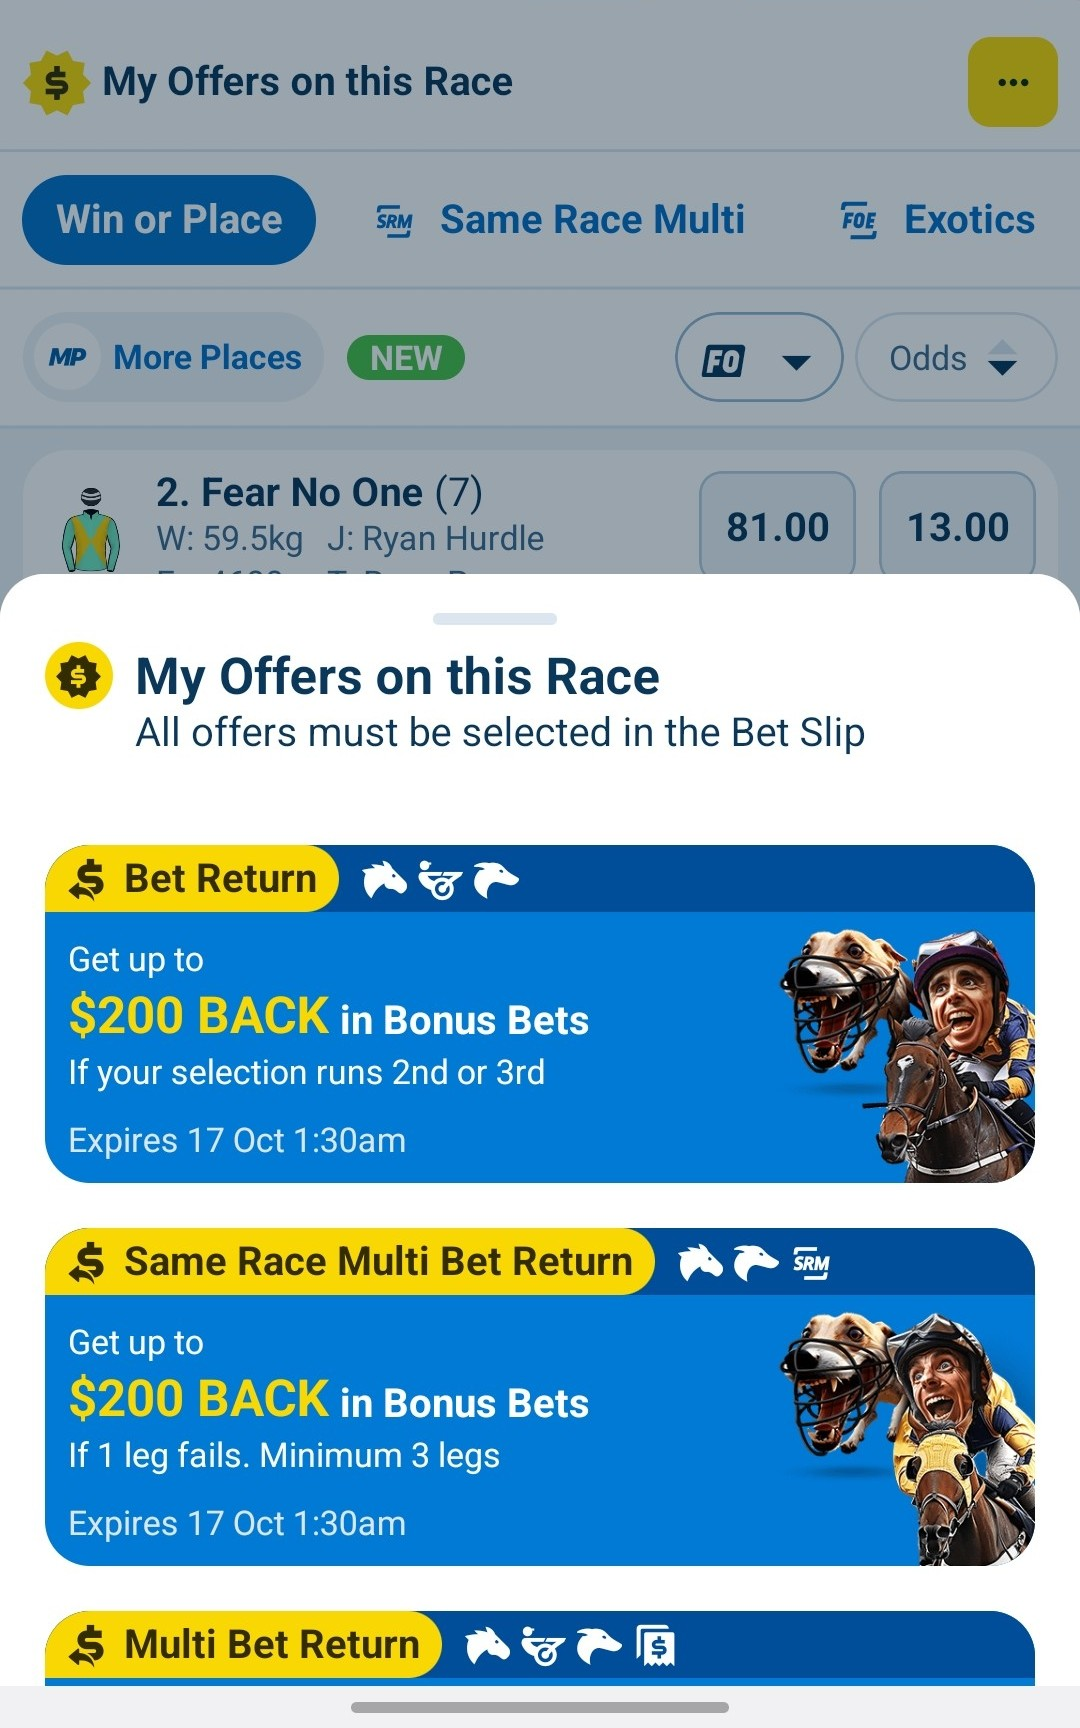
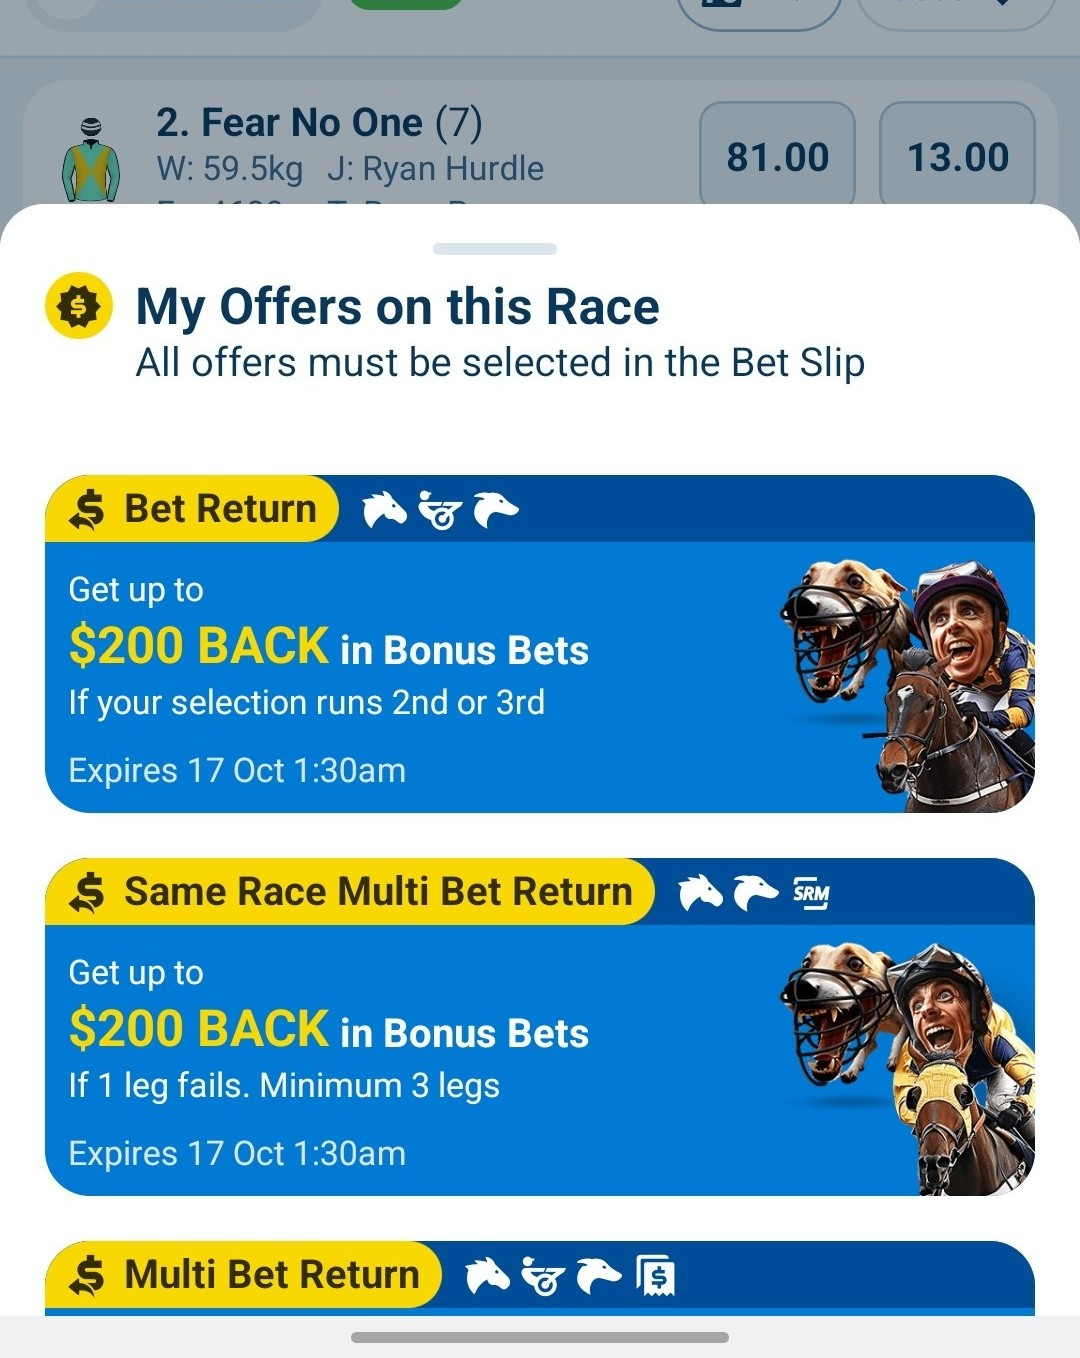
added images and removed reduntant image container

diff --git a/index.html b/index.html
@@ -27,7 +27,7 @@
     <section id="work" class="section main-content">
         <h2 class="section-title">Featured Projects</h2>
         <div class="projects-grid">
-            <div class="project-card" onclick="showProject('project1')">
+            <div class="project-card-2" onclick="showProject('project1')">
                 <div class="project-image"><img src="image1.jpg" alt="Event Promotions Bottom Sheet"></div>
                 <div class="project-info">
                     <h3>Event Promotions Bottom Sheet</h3>
@@ -81,6 +81,8 @@
                     <span class="skill">Figma</span>
                     <span class="skill">Design Systems</span>
                     <span class="skill">Usability Testing</span>
+                    <span class="skill">HTML / CSS</span>
+                    <span class="skill">AI</span>
                 </div>
                 <h3 style="margin-top: 3rem; margin-bottom: 1rem; font-size: 1.8rem;">Let's Connect</h3>
                 <p style="margin-bottom: 1.5rem;">I'm always interested in hearing about new projects and opportunities</p>
@@ -260,6 +262,160 @@
     </div>
 
     <div id="project2" class="project-detail">
+            <a href="#work" class="cta-button" onclick="hideProject(event)">← Back to Projects</a>
+        <div class="project-header">
+            <h1>Merchandise Promotional Offers</h1>
+            <div class="project-meta">
+                <div class="project-meta-item">
+                    <span class="project-meta-label">Role</span>
+                    <span class="project-meta-value">UX Designer & Strategist</span>
+                </div>
+                <div class="project-meta-item">
+                    <span class="project-meta-label">Timeline</span>
+                    <span class="project-meta-value">6 months</span>
+                </div>
+                <div class="project-meta-item">
+                    <span class="project-meta-label">Stakeholders</span>
+                    <span class="project-meta-value">Product, Marketing, Merchandising</span>
+                </div>
+            </div>
+            <div class="tags">
+                <span class="tag">UX Strategy</span>
+                <span class="tag">A/B Testing</span>
+                <span class="tag">Cross-customer Design</span>
+                <span class="tag">Revenue Optimization</span>
+                <span class="tag">Statistics</span>
+            </div>
+        </div>
+        <div class="hero-overview-section">
+            <div class="project-section">
+                <h3> Strategically integrated merchandise promotional offers throughout key betting user journeys to drive cross-category engagement while maintaining focus on the primary betting experience. The goal was to increase merchandise revenue without disrupting the betting flow.   
+                </h3>    
+            </div>
+            <div class="project-image-container">    
+                <div class="project-hero-image"><img src="image12.jpg" alt="Event Promotions Bottom Sheet">
+                </div>
+            </div>
+        </div>
+        <div class="project-section">
+            <h2>The Challenge</h2>
+                    <p>The company wanted to promote their merchandise (team jerseys, betting-related apparel, fan gear) to betting users, but faced several obstacles:</p>
+                    <ul>
+                    <li>Merchandise promotions felt disconnected from betting experience</li>
+                    <li>Users perceived promotional content as intrusive or spammy</li>
+                    <li>Risk of distracting users from their primary goal (placing bets)</li>
+                    <li>Finding the right balance between promotion and user experience</li>
+                    <li>Low awareness of merchandise offerings among betting customers</li>
+                    <li>Need to respect different user mindsets throughout their journey</li>
+                </ul>
+        </div>
+        <div class="project-content"></div>
+          <div class="project-image-grid"> 
+                    <div class="project-image-container">
+                        <div class="project-image img">
+                            <img src="image5.jpg" alt="Event Promotions Bottom Sheet">
+                        </div>
+                        <project-info h3>entry point to promotions hidden in account menu</project-info h3>
+                    </div>
+                    <div class="project-image-container">
+                        <div class="project-image img">
+                            <img src="image13.jpg" alt="Event Promotions Bottom Sheet">
+                        </div>
+                        <project-info h3>Promotional cards are lack context and are difficult to scan</project-info h3>
+                    </div>
+                    <div class="project-image-container">
+                        <div class="project-image img">
+                            <img src="image11.jpg" alt="Event Promotions Bottom Sheet">
+                        </div>
+                        <project-info h3>The betslip is the first time customers are told about multis and often have to double back to forefil promotion's requirements</project-info h3>
+                    </div>
+        </div>
+        <div class="project-content">
+            <div class="project-section">
+                <h2>Research & Discovery</h2>
+                I conducted journey mapping workshops with 20 users to understand their betting flow mindsets, analyzed clickstream data across 200K+ user sessions, and ran preference tests with 300 customers on different promotional approaches. I also interviewed merchandising team to understand inventory and margin considerations. Research revealed distinct "high-focus" (pre-bet) vs "low-focus" (post-bet, browsing) moments in user journeys.</p>
+                <div class="project-image-grid">
+                    
+                <div class="outcome-stats">
+                    <div class="stat-card">
+                        <div class="stat-number">6 of 28</div>
+                        <div class="stat-label">Of interviewed bettors mentioned lossing track of the promotion.</div>
+                    </div>
+                    <div class="stat-card">
+                        <div class="stat-number">8 of 28</div>
+                        <div class="stat-label">Of interviewed bettors mentioned being unclear what offers were available.</div>
+                    </div>
+                    <div class="stat-card">
+                        <div class="stat-number">25 of 28</div>
+                        <div class="stat-label">Of interviewed bettors said they would prefer promotions were visible on the event.</div>
+                    </div>
+                </div>
+                </div>
+            </div>
+
+            <div class="hero-overview-section">
+                <div class="project-section">
+                    <h2>Design Solution</h2>
+                    <p>Created a multi-touchpoint promotional strategy that respects user context:</p>
+                    <ul>
+                        <li>Post-bet confirmation screen featuring team merchandise related to the bet placed</li>
+                        <li>Subtle sidebar promotions on browse/discovery pages (low-focus moments)</li>
+                        <li>Personalized merchandise recommendations in account dashboard</li>
+                        <li>Event page banners for major games featuring limited-edition merchandise</li>
+                        <li>Empty betslip state showcasing trending merchandise</li>
+                        <li>Email integration after big wins suggesting celebratory merchandise</li>
+                        <li>Zero promotions during active bet construction (high-focus moments)</li>
+                        <li>Consistent visual language connecting promotions to betting brand</li>
+                </ul>   
+                </div>
+                <div class="project-image-2"><img src="image.jpg" alt="Event Promotions Bottom Sheet">
+                </div>
+            </div>    
+         </div>
+         <br>
+            <div class="project-section">
+                <h2>Results</h2>
+                <p>Less customer contacts regarding missing or lost promotions and greater value perception:</p>
+                <div class="project-image-grid">
+                    <div class="stat-group">
+                        <div class="ring-container">
+                            <div class="ring" style="--percentage: 252deg; --color-start: #42A5F5; --color-end: #9C27B0;"></div>
+                            <div class="percentage">70%</div>
+                        </div>
+                        <div class="stat-description">
+                            <h3>Promotion Usage Rate</h3>
+                            <p>70% of users who saw the bottom sheet applied at least one promotion, a 52% increase from previous rates.</p>
+                        </div>
+                    </div>   
+                    <div class="stat-group">
+                        <div class="ring-container">
+                            <div class="ring" style="--percentage: 54deg; --color-start: #42A5F5; --color-end: #9C27B0;"></div>
+                            <div class="percentage">15%</div>
+                        </div>
+                        <div class="stat-description">
+                            <h3>Promotion Usage Rate</h3>
+                            <p>70% of users who saw the bottom sheet applied at least one promotion, a 52% increase from previous rates.</p>
+                        </div>
+                    </div> <div class="stat-group">
+                        <div class="ring-container">
+                            <div class="ring" style="--percentage: 162deg; --color-start: #42A5F5; --color-end: #9C27B0;"></div>
+                            <div class="percentage">45%</div>
+                        </div>
+                        <div class="stat-description">
+                            <h3>Promotion Usage Rate</h3>
+                            <p>70% of users who saw the bottom sheet applied at least one promotion, a 52% increase from previous rates.</p>
+                        </div>
+                    </div>
+            </div>
+            
+            <div class="project-section">
+                <h2>Key Learnings</h2>
+                <p>This project reinforced the importance of contextual information delivery. By bringing promotions to users at the moment of decision-making rather than requiring them to search, we dramatically increased engagement. The bottom sheet pattern proved ideal for optional, supplementary information that enhances but doesn't interrupt the primary user journey.</p>
+            </div>
+        </div>
+    </div>
+
+    <div id="project2" class="project-detail">
         <a href="#work" class="back-button" onclick="hideProject(event)">← Back to Projects</a>
         
         <div class="project-header">
@@ -271,17 +427,17 @@
                 </div>
                 <div class="project-meta-item">
                     <span class="project-meta-label">Timeline</span>
-                    <span class="project-meta-value">4 months</span>
+                    <span class="project-meta-value">6 months</span>
                 </div>
                 <div class="project-meta-item">
                     <span class="project-meta-label">Stakeholders</span>
-                    <span class="project-meta-value">Product, Marketing, Merchandising, Engineering</span>
+                    <span class="project-meta-value">Product, Marketing, Merchandising, Statistics</span>
                 </div>
             </div>
             <div class="tags">
                 <span class="tag">UX Strategy</span>
                 <span class="tag">A/B Testing</span>
-                <span class="tag">Cross-sell Design</span>
+                <span class="tag">Cross-customer Design</span>
                 <span class="tag">Revenue Optimization</span>
             </div>
         </div>

diff --git a/Style.css b/Style.css
@@ -73,7 +73,8 @@
             grid-template-columns: 2fr 1fr;
             gap: 3rem;
             align-items: center;
-            margin-bottom: 4rem;    
+            margin-bottom: 4rem;
+            margin-top: 4rem;     
          }
 
         .hero-overview-section .project-section {
@@ -209,6 +210,11 @@
             box-shadow: 0 20px 40px rgba(102, 126, 234, 0.3);
         }
 
+         .project-card-2:hover {
+            transform: translateY(-10px);
+            box-shadow: 0 20px 40px rgba(102, 126, 234, 0.3);
+        }
+
         .project-image {
             width: 100%;
             height: 400px;
@@ -236,6 +242,10 @@
         }
 
         .project-card:hover .project-image::before {
+            left: 100%;
+        }
+
+        .project-card-2:hover .project-image::before {
             left: 100%;
         }
 
@@ -413,11 +423,12 @@
         .project-meta-value {
             color: #fff;
             font-size: 1.1rem;
+            margin-bottom: 2rem;
         }
 
         .project-hero-image {
             display: flex;
-            height: 400px;
+            height: 300px;
             width: 80%;
             align-items:flex-end;
             border-radius: 0 0 20px 20px;
@@ -473,14 +484,6 @@
             grid-template-columns: repeat(auto-fit, minmax(300px, 1fr));
             gap: 2rem;
             margin: 2rem 0;
-        }
-
-        .project-image-container {
-            display: flex;
-            flex-direction: column;
-            align-items: center;
-            gap: 1rem;
-            text-align: center;
         }
 
         .project-image {
